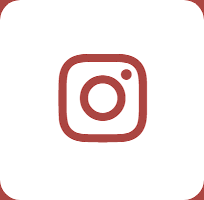
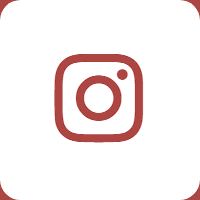
fix tamanho icones

diff --git a/styles.css b/styles.css
@@ -66,7 +66,7 @@ nav a:hover {
 
 .footer img {
   width: 40px; /* Ajuste conforme necessário */
-  height: auto;
+  height: 40px;
 }
 
 .contact a {
